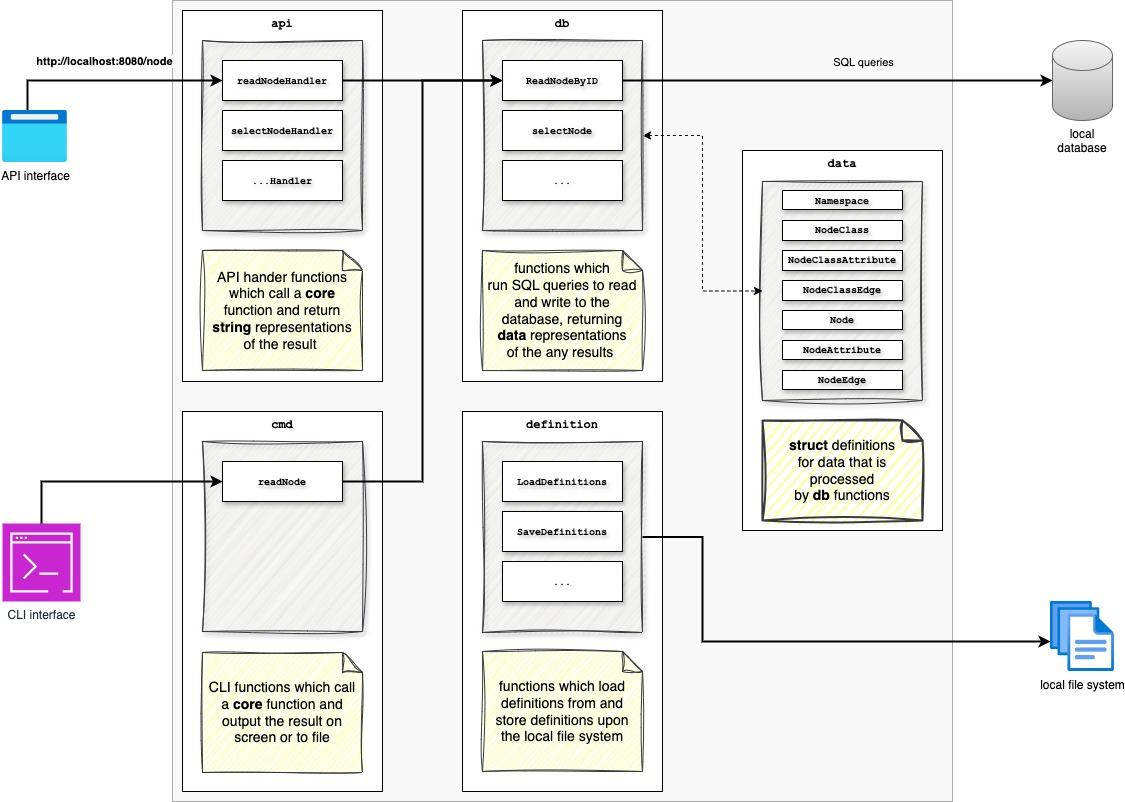
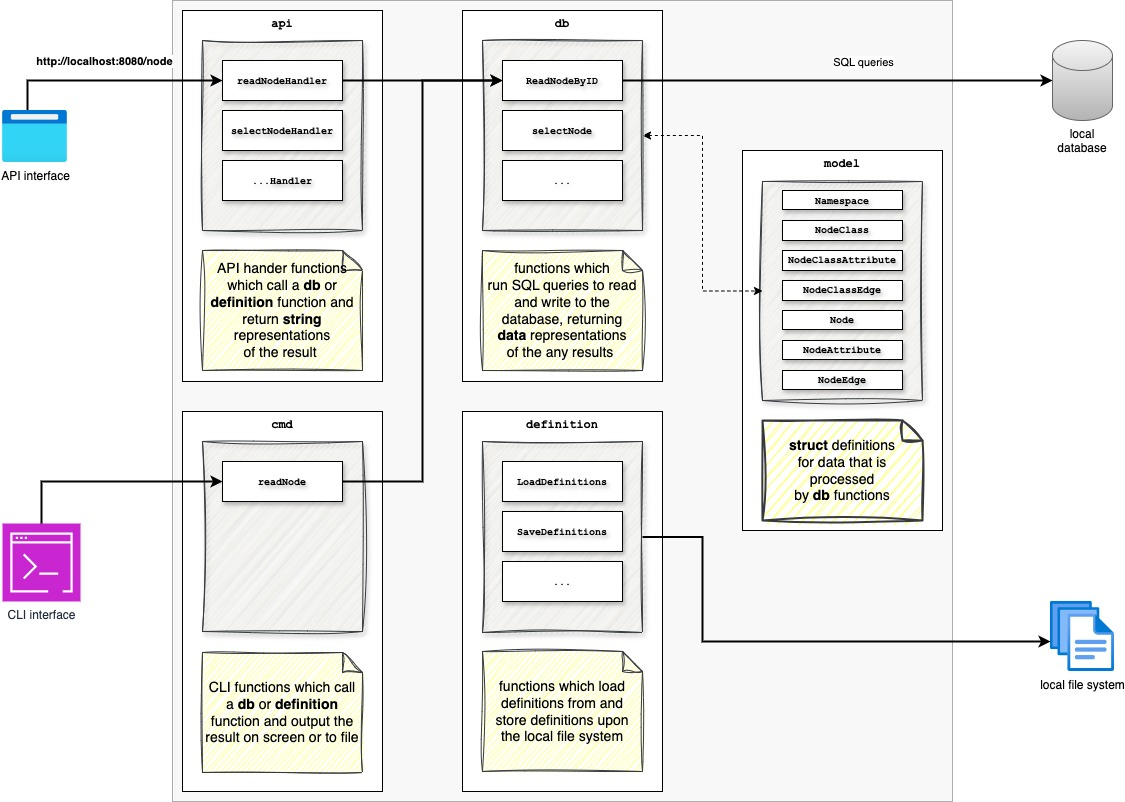
refactoring data to model package

Changed region(s): [[0.1867, 0.3117, 0.3111, 0.4676], [0.1867, 0.8728, 0.3111, 0.9352], [0.7156, 0.187, 0.7778, 0.2182]]

diff --git a/src/db/node.go b/src/db/node.go
@@ -3,8 +3,8 @@ package db
 import (
 	"database/sql"
 	_ "github.com/mattn/go-sqlite3"
-	"github.com/nextmetaphor/definition-graph/data"
 	"github.com/nextmetaphor/definition-graph/definition"
+	"github.com/nextmetaphor/definition-graph/model"
 	"github.com/rs/zerolog/log"
 	"strings"
 )
@@ -147,7 +147,7 @@ func SelectNodeGraph(db *sql.DB) (graph definition.Graph, err error) {
 	return
 }
 
-func SelectNodes(db *sql.DB, nodeClassID string, nodeClassNamespace string) (graph data.Nodes, err error) {
+func SelectNodes(db *sql.DB, nodeClassID string, nodeClassNamespace string) (graph model.Nodes, err error) {
 	var nodeRows *sql.Rows
 	if strings.TrimSpace(nodeClassID) == "" {
 		nodeRows, err = db.Query(selectNodeSQL)
@@ -161,7 +161,7 @@ func SelectNodes(db *sql.DB, nodeClassID string, nodeClassNamespace string) (gra
 	defer nodeRows.Close()
 
 	for nodeRows.Next() {
-		var node data.Node
+		var node model.Node
 
 		var nodeID, classID string
 		if err = nodeRows.Scan(&nodeID, &classID); err != nil {
@@ -193,7 +193,7 @@ func SelectNodes(db *sql.DB, nodeClassID string, nodeClassNamespace string) (gra
 
 	return
 }
-func ReadNodeByID(db *sql.DB, nodeClassNamespace string, nodeClassID string, nodeID string) (graph data.Nodes, err error) {
+func ReadNodeByID(db *sql.DB, nodeClassNamespace string, nodeClassID string, nodeID string) (graph model.Nodes, err error) {
 	var nodeRows *sql.Rows
 	nodeRows, err = db.Query(selectNodeSQLByID, nodeClassNamespace, nodeClassID, nodeID)
 	if err != nil {
@@ -203,7 +203,7 @@ func ReadNodeByID(db *sql.DB, nodeClassNamespace string, nodeClassID string, nod
 	defer nodeRows.Close()
 
 	for nodeRows.Next() {
-		var node data.Node
+		var node model.Node
 		if err = nodeRows.Scan(&node.ID, &node.NodeClassID, &node.NodeClassNamespace); err != nil {
 			return
 		}
@@ -218,7 +218,7 @@ func ReadNodeByID(db *sql.DB, nodeClassNamespace string, nodeClassID string, nod
 	defer attributeRows.Close()
 
 	for attributeRows.Next() {
-		var attribute data.NodeAttribute
+		var attribute model.NodeAttribute
 		if err = attributeRows.Scan(&attribute.NodeClassAttributeID, &attribute.Value); err != nil {
 			return
 		}

diff --git a/src/db/nodeclassattribute_test.go b/src/db/nodeclassattribute_test.go
@@ -1,7 +1,7 @@
 package db
 
 import (
-	"github.com/nextmetaphor/definition-graph/data"
+	"github.com/nextmetaphor/definition-graph/model"
 	"github.com/stretchr/testify/assert"
 	"testing"
 )
@@ -15,7 +15,7 @@ func Test_SelectNodeClassAttributeByNodeClass(t *testing.T) {
 		assert.Nil(t, err)
 		assert.Equal(t, 3, len(attributes))
 
-		assert.Equal(t, data.NodeClassAttributes{
+		assert.Equal(t, model.NodeClassAttributes{
 			{
 				ID:                 "firstname",
 				NodeClassID:        "person",
@@ -48,7 +48,7 @@ func Test_CreateNodeClassAttribute(t *testing.T) {
 
 	t.Run("CreateNodeClassAttribute", func(t *testing.T) {
 
-		err := CreateNodeClassAttribute(conn, data.NodeClassAttribute{
+		err := CreateNodeClassAttribute(conn, model.NodeClassAttribute{
 			ID:                 "dob",
 			NodeClassID:        "person",
 			NodeClassNamespace: "io.nextmetaphor",
@@ -56,7 +56,7 @@ func Test_CreateNodeClassAttribute(t *testing.T) {
 			IsRequired:         0,
 			Description:        stringPointer("date of birth"),
 		})
-		err = CreateNodeClassAttribute(conn, data.NodeClassAttribute{
+		err = CreateNodeClassAttribute(conn, model.NodeClassAttribute{
 			ID:                 "title",
 			NodeClassID:        "person",
 			NodeClassNamespace: "io.nextmetaphor",
@@ -68,7 +68,7 @@ func Test_CreateNodeClassAttribute(t *testing.T) {
 		assert.Nil(t, err)
 		assert.Equal(t, 5, len(attributes))
 
-		assert.Equal(t, data.NodeClassAttributes{
+		assert.Equal(t, model.NodeClassAttributes{
 			{
 				ID:                 "dob",
 				NodeClassID:        "person",

diff --git a/src/db/nodeclassattribute.go b/src/db/nodeclassattribute.go
@@ -2,7 +2,7 @@ package db
 
 import (
 	"database/sql"
-	"github.com/nextmetaphor/definition-graph/data"
+	"github.com/nextmetaphor/definition-graph/model"
 	"github.com/rs/zerolog/log"
 )
 
@@ -12,7 +12,7 @@ const (
 	insertNodeClassAttributeSQL = `INSERT INTO NodeClassAttribute (ID, NodeClassID, NodeClassNamespace, Description, Type, IsRequired) values (?, ?, ?, ?, ?, ?);`
 )
 
-func SelectNodeClassAttributeByNodeClass(db *sql.DB, nodeClassID, nodeClassNamespace string) (nodeClassAttributes data.NodeClassAttributes, err error) {
+func SelectNodeClassAttributeByNodeClass(db *sql.DB, nodeClassID, nodeClassNamespace string) (nodeClassAttributes model.NodeClassAttributes, err error) {
 	rows, err := db.Query(selectNodeClassAttributeByNodeClassSQL, nodeClassID, nodeClassNamespace)
 	if err != nil {
 		log.Error().Err(err)
@@ -20,7 +20,7 @@ func SelectNodeClassAttributeByNodeClass(db *sql.DB, nodeClassID, nodeClassNames
 	}
 	defer rows.Close()
 
-	var nca data.NodeClassAttribute
+	var nca model.NodeClassAttribute
 	for rows.Next() {
 		if err = rows.Scan(&nca.ID, &nca.NodeClassID, &nca.NodeClassNamespace, &nca.Description, &nca.Type, &nca.IsRequired); err != nil {
 			log.Error().Err(err)
@@ -32,7 +32,7 @@ func SelectNodeClassAttributeByNodeClass(db *sql.DB, nodeClassID, nodeClassNames
 	return
 }
 
-func CreateNodeClassAttribute(c *sql.DB, nca data.NodeClassAttribute) (e error) {
+func CreateNodeClassAttribute(c *sql.DB, nca model.NodeClassAttribute) (e error) {
 	s, e := c.Prepare(insertNodeClassAttributeSQL)
 	if e != nil {
 		log.Error().Err(e)

diff --git a/src/db/nodeclass.go b/src/db/nodeclass.go
@@ -3,8 +3,8 @@ package db
 import (
 	"database/sql"
 	_ "github.com/mattn/go-sqlite3"
-	"github.com/nextmetaphor/definition-graph/data"
 	"github.com/nextmetaphor/definition-graph/definition"
+	"github.com/nextmetaphor/definition-graph/model"
 	"github.com/rs/zerolog/log"
 )
 
@@ -24,7 +24,7 @@ const (
 )
 
 // SelectNodeClass selects all NodeClass records from the database.
-func SelectNodeClass(db *sql.DB) (nodeClasses data.NodeClasses, err error) {
+func SelectNodeClass(db *sql.DB) (nodeClasses model.NodeClasses, err error) {
 	nodeClassRows, err := db.Query(selectNodeClassSQL)
 	if err != nil {
 		log.Error().Err(err).Msg(logCannotQueryNodeClassSelectStmt)
@@ -33,7 +33,7 @@ func SelectNodeClass(db *sql.DB) (nodeClasses data.NodeClasses, err error) {
 	defer nodeClassRows.Close()
 
 	for nodeClassRows.Next() {
-		var nodeClass data.NodeClass
+		var nodeClass model.NodeClass
 		if err = nodeClassRows.Scan(&nodeClass.ID, &nodeClass.Namespace, &nodeClass.Description); err == nil {
 			nodeClasses = append(nodeClasses, nodeClass)
 		}
@@ -42,7 +42,7 @@ func SelectNodeClass(db *sql.DB) (nodeClasses data.NodeClasses, err error) {
 	return
 }
 
-func CreateNodeClass(c *sql.DB, nc data.NodeClass) (e error) {
+func CreateNodeClass(c *sql.DB, nc model.NodeClass) (e error) {
 	s, e := c.Prepare(insertNodeClassSQL)
 	if e != nil {
 		return

diff --git a/src/db/nodeclass_test.go b/src/db/nodeclass_test.go
@@ -1,7 +1,7 @@
 package db
 
 import (
-	"github.com/nextmetaphor/definition-graph/data"
+	"github.com/nextmetaphor/definition-graph/model"
 	"github.com/stretchr/testify/assert"
 	"testing"
 )
@@ -15,7 +15,7 @@ func Test_SelectNodeClass(t *testing.T) {
 		assert.Nil(t, err)
 		assert.Equal(t, len(classes), 4)
 
-		assert.Equal(t, classes, data.NodeClasses{
+		assert.Equal(t, classes, model.NodeClasses{
 			{
 				ID:          "person",
 				Namespace:   "io.nextmetaphor",
@@ -43,7 +43,7 @@ func Test_SelectNodeClass(t *testing.T) {
 func Test_CreateNodeClass(t *testing.T) {
 	conn, _ := SetupCleanDatabase()
 
-	nc := data.NodeClass{
+	nc := model.NodeClass{
 		ID:          "nc001",
 		Namespace:   "io.nextmetaphor",
 		Description: "NodeClass 001",
@@ -71,7 +71,7 @@ func Test_CreateNodeClass(t *testing.T) {
 		rows, _ := conn.Query("select ID, Namespace, Description from NodeClass where ID=? and Namespace=?", nc.ID, nc.Namespace)
 
 		assert.True(t, rows.Next())
-		var nc2 data.NodeClass
+		var nc2 model.NodeClass
 		_ = rows.Scan(&nc2.ID, &nc2.Namespace, &nc2.Description)
 
 		assert.Equal(t, nc.ID, nc2.ID)

diff --git a/src/db/namespace.go b/src/db/namespace.go
@@ -2,7 +2,7 @@ package db
 
 import (
 	"database/sql"
-	"github.com/nextmetaphor/definition-graph/data"
+	"github.com/nextmetaphor/definition-graph/model"
 	"github.com/rs/zerolog/log"
 )
 
@@ -10,7 +10,7 @@ const (
 	selectNamespacesSQL = `SELECT DISTINCT Namespace from NodeClass order by Namespace`
 )
 
-func SelectNamespaces(db *sql.DB) (namespaces data.Namespaces, err error) {
+func SelectNamespaces(db *sql.DB) (namespaces model.Namespaces, err error) {
 	namespaceRows, err := db.Query(selectNamespacesSQL)
 	if err != nil {
 		log.Error().Err(err).Msg(logCannotQueryNamespaceSelectStmt)
@@ -19,7 +19,7 @@ func SelectNamespaces(db *sql.DB) (namespaces data.Namespaces, err error) {
 	defer namespaceRows.Close()
 
 	for namespaceRows.Next() {
-		var nodeClass data.Namespace
+		var nodeClass model.Namespace
 		if err = namespaceRows.Scan(&nodeClass.Namespace); err == nil {
 			namespaces.Namespace = append(namespaces.Namespace, nodeClass)
 		}

diff --git a/src/db/namespace_test.go b/src/db/namespace_test.go
@@ -1,7 +1,7 @@
 package db
 
 import (
-	"github.com/nextmetaphor/definition-graph/data"
+	"github.com/nextmetaphor/definition-graph/model"
 	"github.com/stretchr/testify/assert"
 	"testing"
 )
@@ -16,7 +16,7 @@ func Test_SelectNamespaces(t *testing.T) {
 		assert.Nil(t, err)
 		assert.Equal(t, len(namespaces.Namespace), 3)
 
-		assert.Equal(t, namespaces, data.Namespaces{Namespace: []data.Namespace{
+		assert.Equal(t, namespaces, model.Namespaces{Namespace: []model.Namespace{
 			{
 				Namespace: "io.nextmetaphor",
 			},

diff --git a/src/model/nodeclassattribute.go b/src/model/nodeclassattribute.go
@@ -1,4 +1,4 @@
-package data
+package model
 
 type (
 	NodeClassAttributes []NodeClassAttribute

diff --git a/src/model/nodeclassedge.go b/src/model/nodeclassedge.go
@@ -1,4 +1,4 @@
-package data
+package model
 
 type (
 	NodeClassEdges []NodeClassEdge

diff --git a/src/model/nodeclass.go b/src/model/nodeclass.go
@@ -1,4 +1,4 @@
-package data
+package model
 
 type (
 	NodeClasses []NodeClass

diff --git a/src/model/namespace.go b/src/model/namespace.go
@@ -1,4 +1,4 @@
-package data
+package model
 
 type (
 	Namespaces struct {

diff --git a/src/model/node.go b/src/model/node.go
@@ -1,4 +1,4 @@
-package data
+package model
 
 type (
 	Nodes struct {
